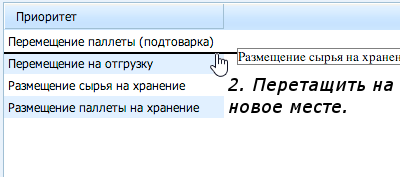
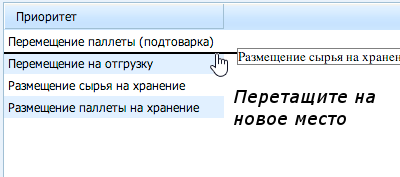
done 2

Changed region(s): [[0.57, 0.4237, 0.99, 0.7062]]

diff --git a/admin/notes.js b/admin/notes.js
@@ -12,9 +12,9 @@
         <td class="padding-right: 10px; vertical-align: top;">
         Режим позволяет уставналивать приоритет для заданий.
         Чем выше позиция в списке, тем выше приоритет для задания.</br>
-        1) Выберите задание для изменения приоритета</br></br>
+        1) Выберите задание для изменения приоритета.</br></br>
             <img src="/static/img/tasks/2.png" /></br></br>
-        2) Неотпуская кнопку мышки, перенесите на новую позицию.</br>
+        2) Неотпуская кнопку мышки, перетащите на новую позицию.</br>
         <img src="/static/img/tasks/3.png" />
     </td>
 </tr>
